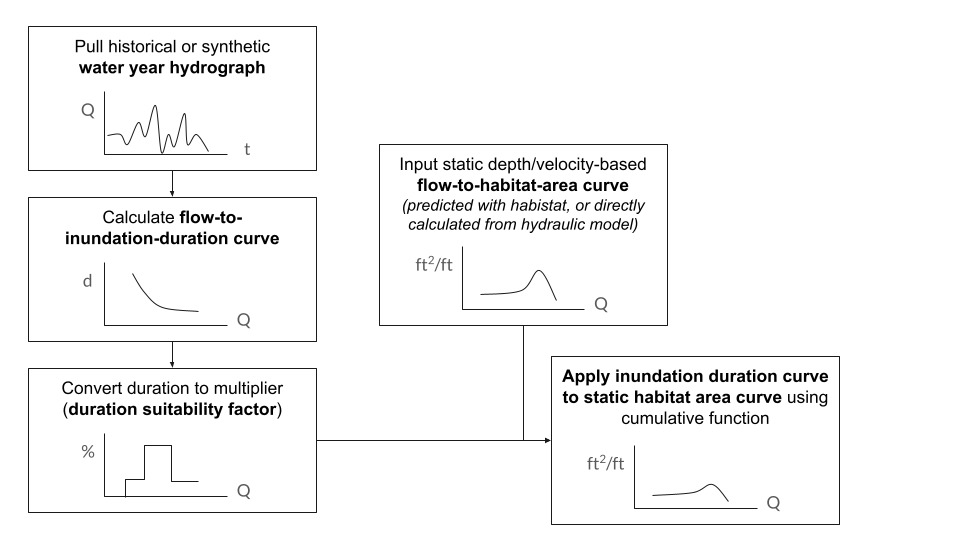
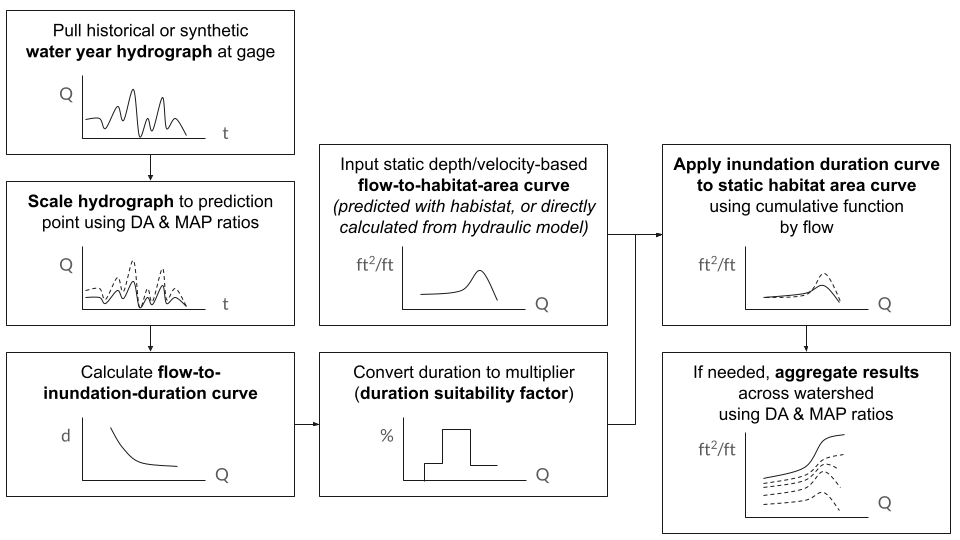
fix duration figures

diff --git a/docs/articles/duration_analysis.html b/docs/articles/duration_analysis.html
@@ -132,7 +132,7 @@ inundating flow for a given grid cell. (For raster models, this can be
 calculated using the <a href="../reference/raster_first_inundating_flow.html"><code>raster_first_inundating_flow</code></a>
 function in habistat.) This example is shown for the Deer Creek
 hydraulic model:</p>
-<p><img src="figures/duration_1_first_inundating_flow.png"></p>
+<p><img src="figures/duration_deer_fif.png"></p>
 <p>Given a hydrograph for a particular water year, a relationship can be
 derived between flow and the number of contiguous days in a water year
 at which that flow is exceeded. This method is implemented in the
@@ -140,10 +140,7 @@ habistat function <a href="../reference/duration_calc_days_inundated.html"><code
 <p><img src="figures/duration_example_2_rating_curve.png"></p>
 <p>Combining the previous two steps, a spatial map of inundation
 duration can be created for this particular water year.</p>
-<p><mark>TODO: This map shows average length of contiguous inundation
-duration; update to show maximum contiguous inundation
-duration.</mark></p>
-<p><img src="figures/duration_2_inundation_duration.png"></p>
+<p><img src="figures/duration_deer_max.png"></p>
 <p>These duration values can then be used, in the same manner as depth
 and velocity, to calculate a habitat suitability index at each model
 grid cell.</p>
@@ -159,8 +156,7 @@ hydrology.</p>
 applying inundation duration criteria to an already generated
 flow-to-suitable-area curve, approximating a duration-weighted
 estimate:</p>
-<p><img src="figures/flowchart_duration.png"><mark>TODO: Add updated
-version of this chart incl. scaling</mark></p>
+<p><img src="figures/flowchart_duration.png"></p>
 <div class="section level4">
 <h4 id="input-flow-to-suitable-area-curve">Input flow-to-suitable-area curve<a class="anchor" aria-label="anchor" href="#input-flow-to-suitable-area-curve"></a>
 </h4>
